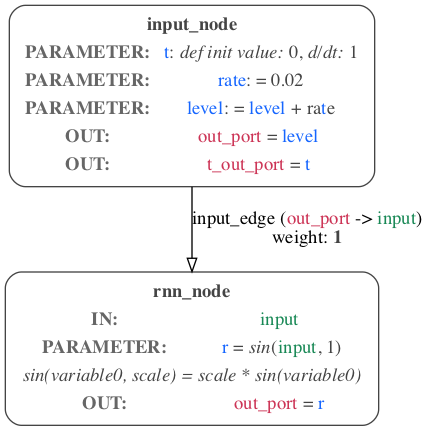
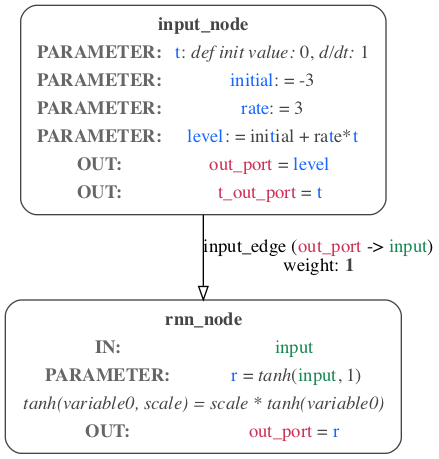
More rnn ideas

Changed region(s): [[0.0, 0.0, 1.0, 0.9954]]

diff --git a/examples/MDF/RNN/rnn_pytorch.py b/examples/MDF/RNN/rnn_pytorch.py
@@ -1,0 +1,64 @@
+import torch
+from torch import nn
+
+input_size = 1
+hidden_size = 1
+num_layers  = 1
+
+in_x = 1
+in_y = 1
+
+rnn = nn.RNN(input_size=input_size,
+             hidden_size=hidden_size,
+             num_layers = num_layers,
+             bias=False)
+
+print('RNN: %s; %s'%(rnn, type(rnn)))
+
+print('Model: %s'%rnn)
+
+
+for i in range(num_layers):
+    h = torch.zeros(hidden_size,input_size)
+    h[0][0] = 1
+    exec('rnn.weight_ih_l%i = torch.nn.Parameter(h)'%i)
+    #exec('rnn.weight_ih_l%i[0] = 1'%i)
+
+for l in range(num_layers):
+    exec('rnn.weight_hh_l%i = torch.nn.Parameter(torch.zeros(hidden_size,hidden_size))'%l)
+    #exec('rnn.weight_hh_l%i[0][0] = 1'%l)
+
+
+print('State_dict:')
+for s in rnn.state_dict():
+    print(' > %s = %s'%(s,rnn.state_dict()[s]))
+
+input = torch.zeros(in_x, in_y, input_size)
+input[0][0][0]=3
+print('Input: %s'%input)
+
+h0 = torch.randn(num_layers, in_y, hidden_size)
+h0 = torch.zeros(num_layers, in_y, hidden_size)
+#h0[0][0]=0.5
+print('h0: %s'%h0)
+
+output, hn = rnn(input, h0)
+
+print('\nOutput calculated by pyTorch, output: %s'%output.detach().numpy())
+print('hn: %s'%hn.detach().numpy())
+
+quit()
+
+print('State_dict:')
+for s in rnn.state_dict():
+    print(' > %s = %s'%(s,rnn.state_dict()[s]))
+
+
+# Export the model
+fn = "rnn.onnx"
+torch_out = torch.onnx._export(rnn,             # model being run
+                               input,                       # model input (or a tuple for multiple inputs)
+                               fn,       # where to save the model (can be a file or file-like object)
+                               export_params=True)      # store the trained parameter weights inside the model file
+
+print('Done! Exported to: %s'%fn)

diff --git a/src/modeci_mdf/functions/standard.py b/src/modeci_mdf/functions/standard.py
@@ -64,7 +64,7 @@ def create_python_expression(expression_string: str = None) -> str:
         function expression in python
     """
 
-    for func in ["exp", "sin", "cos"]:
+    for func in ["exp", "sin", "cos", "tan", "sinh", "cosh", "tanh"]:
         if "math." + func not in expression_string:
 
             expression_string = expression_string.replace(
@@ -161,6 +161,34 @@ if len(mdf_functions) == 0:
         description="Cosine function",
         arguments=[STANDARD_ARG_0, "scale"],
         expression_string="scale * cos(%s)" % (STANDARD_ARG_0),
+    )
+
+    add_mdf_function(
+        "tan",
+        description="Tangent function",
+        arguments=[STANDARD_ARG_0, "scale"],
+        expression_string="scale * tan(%s)" % (STANDARD_ARG_0),
+    )
+
+    add_mdf_function(
+        "sinh",
+        description="Hyperbolic sine function",
+        arguments=[STANDARD_ARG_0, "scale"],
+        expression_string="scale * sinh(%s)" % (STANDARD_ARG_0),
+    )
+
+    add_mdf_function(
+        "cosh",
+        description="Hyperbolic cosine function",
+        arguments=[STANDARD_ARG_0, "scale"],
+        expression_string="scale * cosh(%s)" % (STANDARD_ARG_0),
+    )
+
+    add_mdf_function(
+        "tanh",
+        description="Hyperbolic tangent function",
+        arguments=[STANDARD_ARG_0, "scale"],
+        expression_string="scale * tanh(%s)" % (STANDARD_ARG_0),
     )
 
     add_mdf_function(

diff --git a/examples/MDF/RNN/generate.py b/examples/MDF/RNN/generate.py
@@ -18,10 +18,12 @@ def main():
     )
     input_node.parameters.append(t_param)
 
+    p0 = Parameter(id="initial", value=-3)
+    input_node.parameters.append(p0)
     p1 = Parameter(id="rate", value=3)
     input_node.parameters.append(p1)
 
-    p2 = Parameter(id="level", value="-3 + rate*t")
+    p2 = Parameter(id="level", value="initial + rate*t")
     input_node.parameters.append(p2)
 
     op1 = OutputPort(id="out_port", value=p2.id)
